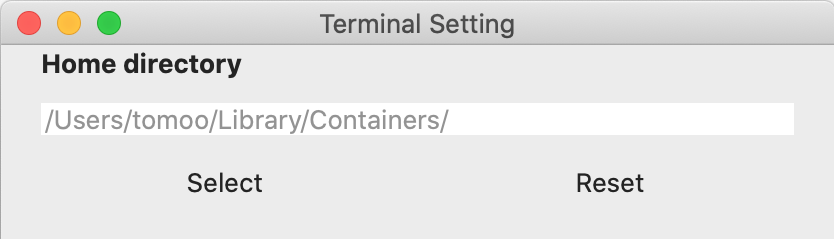
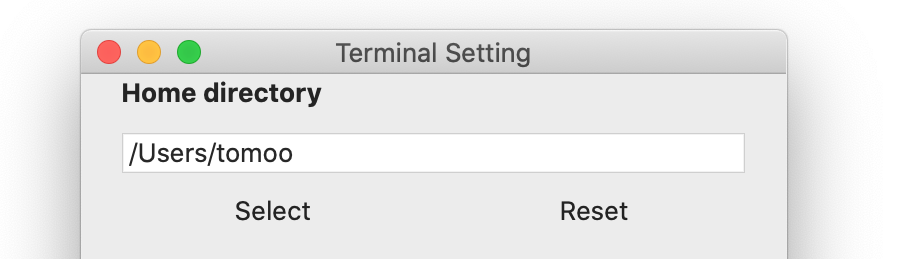
document: Update image of the preference window

diff --git a/Documents/UsersManual.md b/Documents/UsersManual.md
@@ -53,13 +53,13 @@ jsh>
 
 ### Set home directory
 The *JSTerminal* is sandbox application to protect user from hacking.
-This application allows to access __under home directory only__.
+This application allows to access __under home directory only__ and the directory that you choosen at least only once.
 You can define home directory at the [Preference Window](#Preference).
 
 The changing home directory means that you allow this application accesses your files. If you don't like it, do not change the home directory (See [Privacy Policy](https://github.com/steelwheels/JSTerminal/blob/master/Documents/PrivacyPolicy.txt)).
 
-You can use this application without changing home directory.
-But if you want to change your home directory, change the `Home directory` section by clicking `select` button:
+The default home directory is your top home directory.
+You can change the `Home directory` section by clicking `select` button:
 ![Select home directory](./Images/preference-homedir.png)
 
 The setting will be activated for the next new window.
